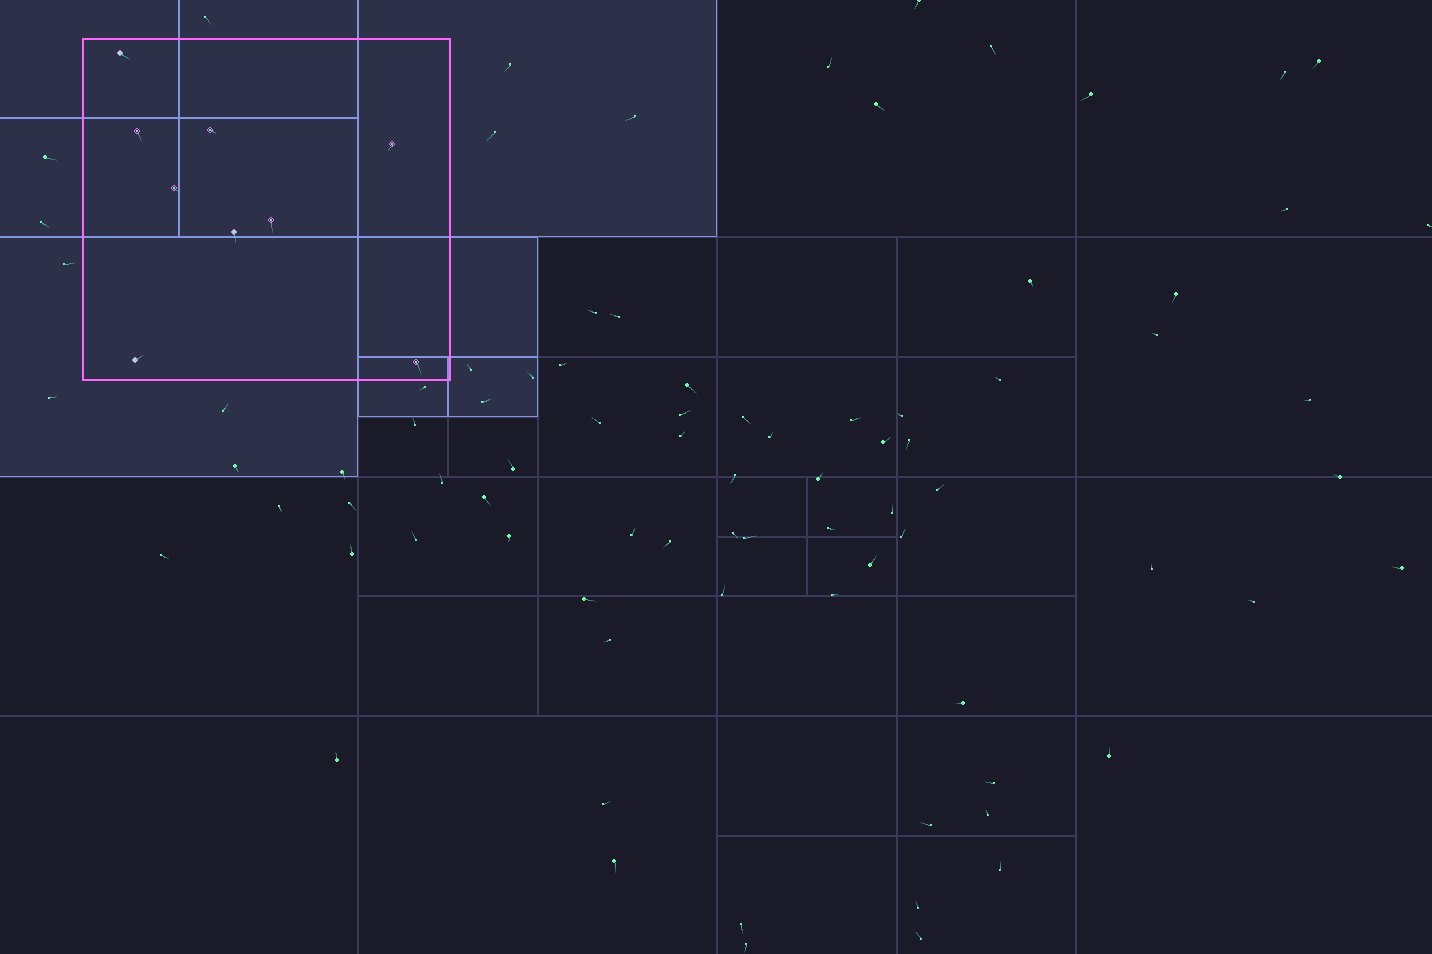
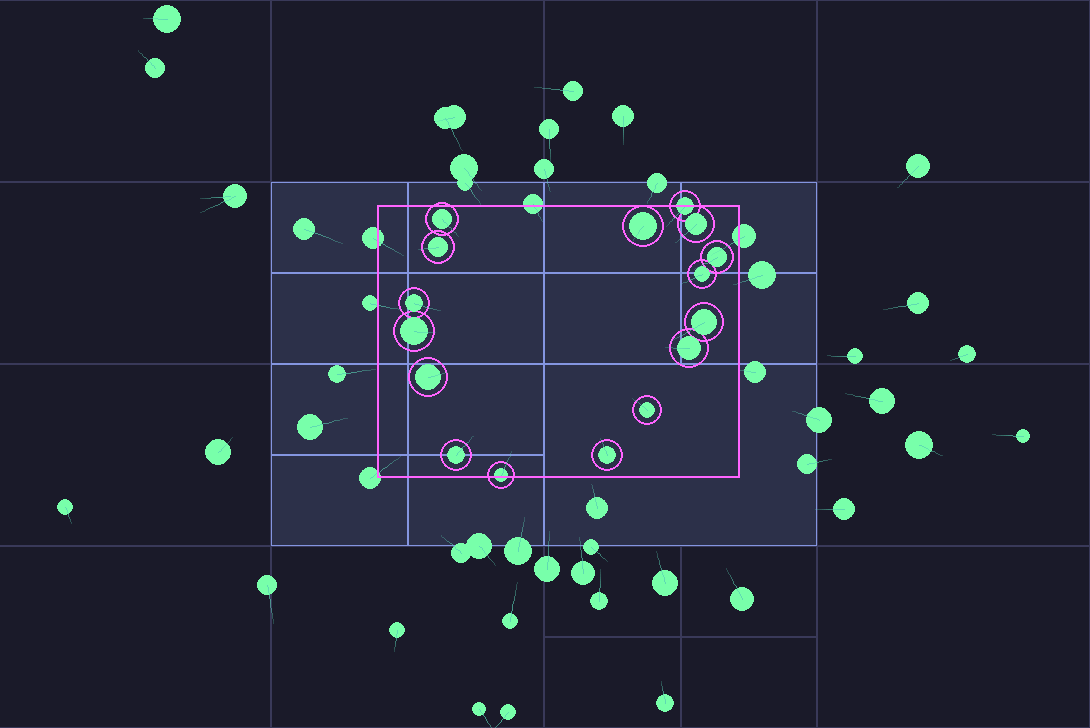
feat: improve ball size in interactive_v2

diff --git a/interactive/interactive_v2.py b/interactive/interactive_v2.py
@@ -84,7 +84,7 @@ class Particle:
         spd = random.uniform(60.0, 160.0)
         self.vx = math.cos(ang) * spd
         self.vy = math.sin(ang) * spd
-        self.r = random.randint(2, 4)
+        self.r = random.randint(8, 16)
         self.trail = deque(maxlen=14)
 
     def update(self, dt):
@@ -319,7 +319,7 @@ def main():
 
         # Mouse-following rectangle
         rect_q = get_mouse_rect()
-        rect_hits = qtree.query(rect_q)
+        rect_hits = qtree.query(rect_q, as_items=True)
 
         # ------------ Rendering ------------
         screen.fill(COL_BG_1)
@@ -336,8 +336,11 @@ def main():
 
         # Highlight hits under queries first
         for item in rect_hits:
-            sx, sy = world_to_screen(item[1], item[2])
-            pygame.draw.circle(screen, COL_QUERY_RECT, (sx, sy), max(3, int(6 * zoom)), max(1, int(2 * zoom)))
+            if item.obj is None:
+                continue
+            sx, sy = world_to_screen(item.x, item.y)
+            radius = (item.obj.r + 8) * zoom
+            pygame.draw.circle(screen, COL_QUERY_RECT, (sx, sy), max(1, int(radius)), max(1, int(3 * zoom)))
 
         # Draw particles and their trails
         for p in qtree.get_all_objects():
